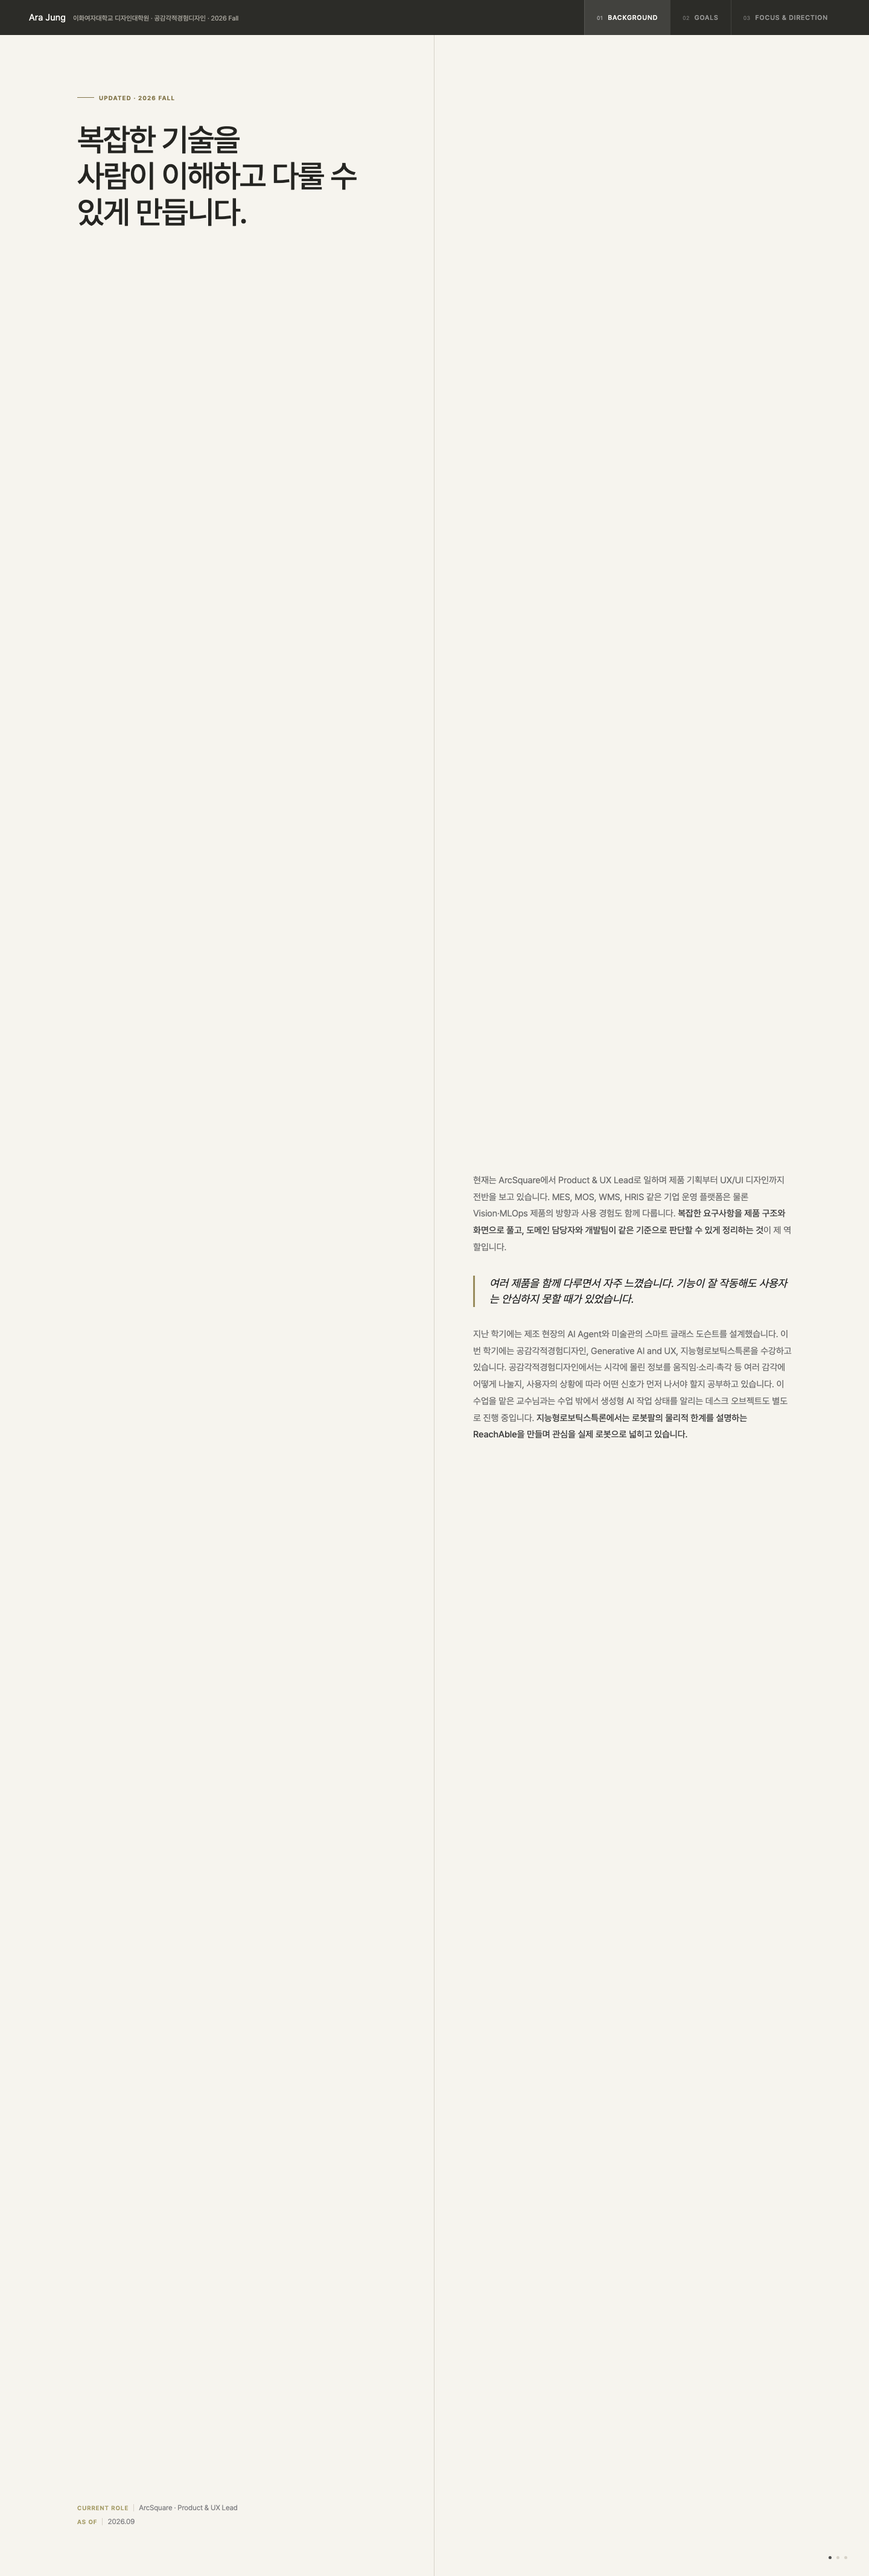
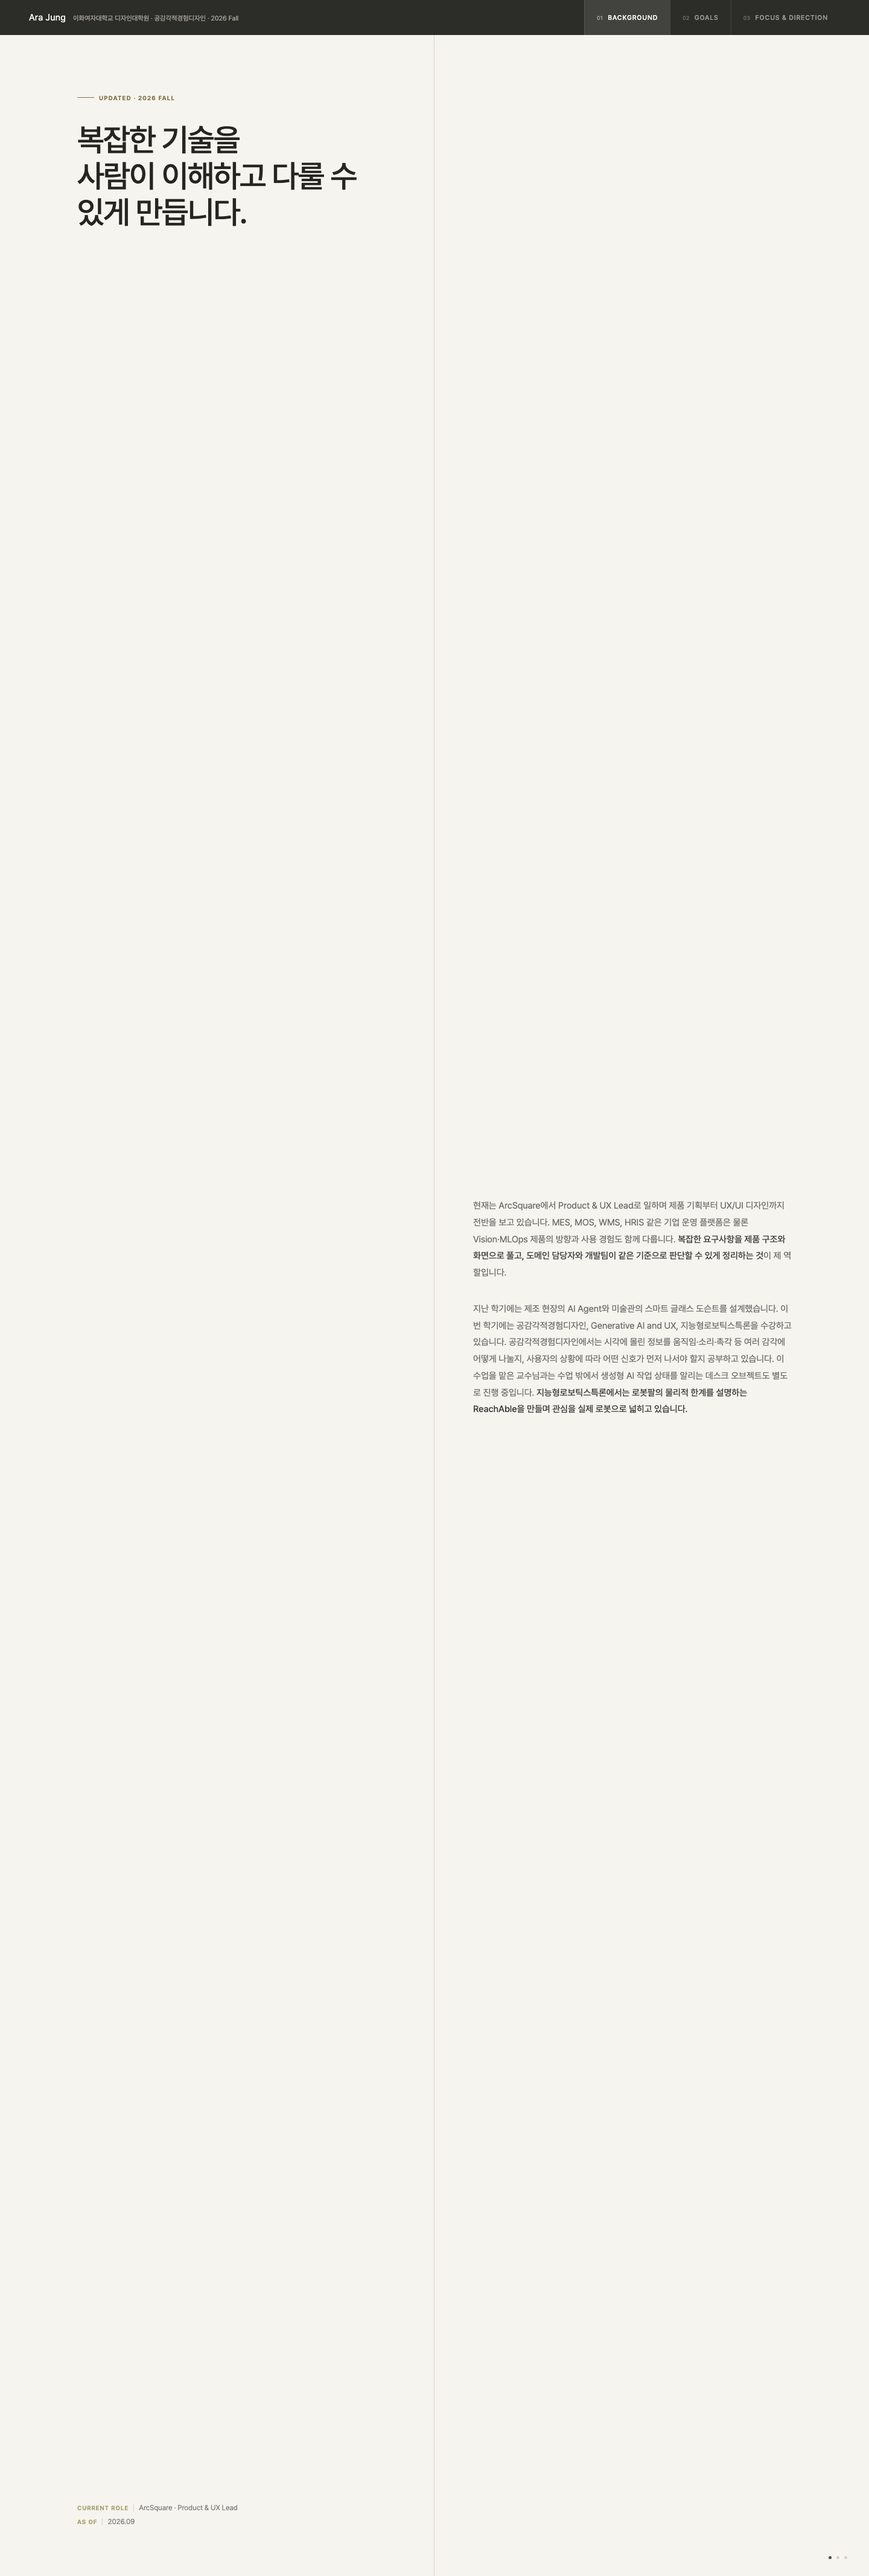
Remove disconnected trust statement

Changed region(s): [[0.5312, 0.4364, 0.9062, 0.561]]

diff --git a/index.html b/index.html
@@ -226,16 +226,8 @@
       color: #6d6d6d;
     }
 
-    .hero-intro-pull {
-      font-family: var(--font-display);
-      font-size: 18px;
-      color: #1a1a1a;
-      font-weight: 400;
-      line-height: 1.45;
-      font-style: italic;
-      border-left: 3px solid #998c5d;
-      padding-left: 24px;
-      margin: 32px 0;
+    .hero-intro + .hero-intro {
+      margin-top: 32px;
     }
 
     /* ── SECTION TITLE ROW ── */
@@ -1385,9 +1377,6 @@
     <div class="hero-right">
       <div class="hero-intro">
         현재는 ArcSquare에서 Product &amp; UX Lead로 일하며 제품 기획부터 UX/UI 디자인까지 전반을 보고 있습니다. MES, MOS, WMS, HRIS 같은 기업 운영 플랫폼은 물론 Vision·MLOps 제품의 방향과 사용 경험도 함께 다룹니다. <strong style="color:#3d3d3d">복잡한 요구사항을 제품 구조와 화면으로 풀고, 도메인 담당자와 개발팀이 같은 기준으로 판단할 수 있게 정리하는 것</strong>이 제 역할입니다.
-      </div>
-      <div class="hero-intro-pull">
-        여러 제품을 함께 다루면서 자주 느꼈습니다. 기능이 잘 작동해도 사용자는 안심하지 못할 때가 있었습니다.
       </div>
       <div class="hero-intro">
         지난 학기에는 제조 현장의 AI Agent와 미술관의 스마트 글래스 도슨트를 설계했습니다. 이번 학기에는 공감각적경험디자인, Generative AI and UX, 지능형로보틱스특론을 수강하고 있습니다. 공감각적경험디자인에서는 시각에 몰린 정보를 움직임·소리·촉각 등 여러 감각에 어떻게 나눌지, 사용자의 상황에 따라 어떤 신호가 먼저 나서야 할지 공부하고 있습니다. 이 수업을 맡은 교수님과는 수업 밖에서 생성형 AI 작업 상태를 알리는 데스크 오브젝트도 별도로 진행 중입니다. <strong style="color:#3d3d3d">지능형로보틱스특론에서는 로봇팔의 물리적 한계를 설명하는 ReachAble을 만들며 관심을 실제 로봇으로 넓히고 있습니다.</strong>
